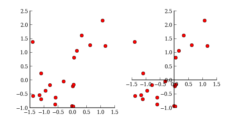
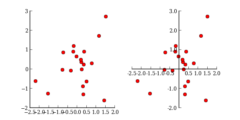
Update documentation

diff --git a/searchindex.js b/searchindex.js
@@ -1,1 +1,1 @@
-Search.setIndex({objects:{"mpltools.layout":{clear_frame:[13,6,1,""],figure:[13,6,1,""],figaspect:[13,6,1,""],pad_limits:[13,6,1,""],figimage:[13,6,1,""],cross_spines:[13,6,1,""]},"mpltools.io":{save_all_figs:[10,6,1,""]},"mpltools.color":{cycle_cmap:[4,6,1,""],colors_from_cmap:[4,6,1,""],color_mapper:[4,6,1,""]},"mpltools.annotation":{slope_marker:[23,6,1,""]},"mpltools.animation.Animation":{"__init__":[6,7,1,""],animate:[6,7,1,""],save:[6,7,1,""],update:[6,7,1,""],init_background:[6,7,1,""]},"mpltools.style":{use:[5,6,1,""]},"mpltools.util.deprecated":{"__init__":[18,7,1,""]},"mpltools.widgets.RectangleSelector":{onmove:[28,7,1,""],edge_coords:[28,8,1,""],extents:[28,8,1,""],set_active:[28,7,1,""],onkeypress:[28,7,1,""],set_visible:[28,7,1,""],get_active:[28,7,1,""],update:[28,7,1,""],disconnect_events:[28,7,1,""],set_animated:[28,7,1,""],release:[28,7,1,""],corner_coords:[28,8,1,""],"__init__":[28,7,1,""],press:[28,7,1,""],ignore:[28,7,1,""],update_background:[28,7,1,""],eventson:[28,8,1,""],connect_event:[28,7,1,""],drawon:[28,8,1,""]},"mpltools.animation":{Animation:[6,9,1,""]},"mpltools.util":{deprecated:[18,9,1,""],figure:[18,6,1,""],figsize:[18,6,1,""],figaspect:[18,6,1,""]},"mpltools.widgets":{Slider:[28,9,1,""],RectangleSelector:[28,9,1,""]},"mpltools.widgets.Slider":{reset:[28,7,1,""],disconnect:[28,7,1,""],on_changed:[28,7,1,""],set_val:[28,7,1,""],value:[28,8,1,""],disconnect_events:[28,7,1,""],ignore:[28,7,1,""],connect_event:[28,7,1,""],eventson:[28,8,1,""],"__init__":[28,7,1,""],drawon:[28,8,1,""]},"mpltools.special":{errorfill:[17,6,1,""],hinton:[17,6,1,""]},mpltools:{style:[5,5,1,""],layout:[13,5,1,""],color:[4,5,1,""],util:[18,5,1,""],animation:[6,5,1,""],io:[10,5,1,""],widgets:[28,5,1,""],annotation:[23,5,1,""],special:[17,5,1,""]}},terms:{represent:17,all:[22,21,10,24,1,11,6,28,19],code:[9,21,22,19,0,1,27,2,16,12,24,3,25,6,14,7,11],edg:28,pep:0,global:15,pval:12,scalar:17,size_frac:23,per:[13,6],abil:[9,19,21],follow:[0,1,22,11],osc:27,decay_r:27,locat:11,millisecond:6,decid:11,middl:28,plot2rst:[26,1,11],graph:9,specif:[24,22],send:0,articl:13,program:28,ylabel:[19,2],sens:1,neglig:22,yerr:17,clockwis:28,merchant:22,deactiv:28,sourc:[9,21,22,19,0,24,1,27,2,16,12,15,3,4,25,6,13,14,7,18,11],everi:[14,16,6],moviewrit:6,regularpolycollect:[14,17],fals:[9,21,23,5,6,13,19],role:3,rise:[23,25],util:[20,18,6],mindist:28,difficult:[0,4],veri:4,mplstyle:[0,11,5],tri:1,solver:14,button:28,list:[10,22,2,27,5,6,4,11],prefix:15,item:[3,6],sane:9,small:11,slidermax:28,setup:[15,6],dimens:13,prevent:1,impli:22,smaller:13,save_count:6,crop:13,sign:11,second:[11,1,6],cost:6,video:[27,6],accomod:13,hypotenus:23,pass:[23,1,2,12,24,6],cycle_cmap:[24,20,4],howev:[14,19,22,21],append:6,decayingoscil:27,blue:11,index:[8,11],what:[18,6],neg:[14,17,25],section:[8,11],edge_coord:28,"while":[3,1,6],uniform:[14,6],current:[13,0,1,5,11],delet:0,version:28,rgba:[12,4],"new":[24,28,1],net:17,method:[28,6],loglog:25,metadata:6,widget:[20,28],deriv:22,leg:12,situat:14,gener:[9,21,19,1,27,2,16,12,24,3,25,6,14,7,11],never:6,here:[1,6],bodi:13,met:22,shouldn:1,procur:22,modif:22,path:[15,0,1,10,11],modifi:[13,22],legend:[16,12],valu:[4,26,17,16,12,25,6,13,14,28,11],convert:[1,11],convers:1,shift:[24,9,19,21],larger:17,genr:6,loos:11,prior:22,figsiz:[20,21,24,9,27,12,18,3,7],inarrai:17,set_ydata:27,alt_func:18,permit:22,implement:[14,17,11,6],narrow:14,magnitud:[14,17],control:[27,28],configur:11,on_chang:28,extra:6,xerr:17,modul:[8,20,10,23,17,18,4,5,6,13,27,28,11],prefer:[13,15],deprec:[20,18],api:[8,17,20],famili:11,visibl:28,marker:[13,23,11,25,26],instal:[8,15],ymin:28,unit:17,plot:[1,2,27,6,7,8,9,10,11,12,13,14,16,17,19,21,23,24,25,26,3,28],introductori:8,from:[1,2,27,4,5,6,7,9,11,12,13,14,15,16,18,19,21,22,24,25,26,3,28],describ:12,would:11,map_color:4,cruft:0,few:11,live:11,busi:22,call:[1,3,6,13,18,28,11],set_axis_off:13,taken:7,black:[14,17,19],hinton:[20,14,17,11,26],type:27,tell:18,tightli:13,more:[14,17,0,11],ggplot:[9,26,11,2],desir:28,under:22,finit:14,notic:22,warn:18,visual:[14,17,11],former:11,particular:[1,22],moin:18,must:[22,27,11,10,6],none:[21,23,17,18,4,5,6,13,28],endpoint:[9,19,21],decaying_oscil:27,eeeeee:11,local:15,arang:[9,6],work:11,annot:[23,20,11,25,26],num_period:27,remain:[28,1,11],itself:28,below:1,can:[15,10,23,1,2,16,5,6,28,11],learn:11,purpos:[17,22],scatter:9,def:[21,27,1,6],on_slid:28,overrid:[6,5,2],want:[27,12,3,11,6],give:[13,6],predict:25,accept:[28,6],minimum:[4,28],tonysyu:15,xmin:28,repeat_delai:6,string:[11,28,1,6],delai:6,cours:[14,15],multipl:[26,11,10,2],turn:13,comfort:3,write:[1,6],how:[8,12],set_xticklabel:9,instead:[14,16,18,4,6],simpl:[24,11,25],sin:[9,21,24,1,16,12,27,19],updat:[27,28,11,6],map:12,product:22,unsupport:6,overridden:11,flip:28,max:28,clone:15,earlier:2,diagram:[6,17,18,26,14,28,11],befor:[1,5,6],ax4:[9,25],mai:[0,15,22,6],npt:27,data:[22,17,16,12,25,13],demonstr:[9,21,1,19],mous:28,github:[0,15],essenti:[9,21,11,19],move:28,confus:6,quot:[1,11],element:[21,11,19,2],caus:22,callback:28,disconnect_ev:28,allow:[13,14,28],enter:28,tall:13,order:[11,6],"2dev":[9,21,24,1,27,2,16,12,3,25,14,7,19],help:25,ouput:10,movi:6,over:[28,11],set_val:28,becaus:[11,4,1,6],corner_coord:28,y_co:16,left:[23,28,1,25],current_figur:1,linewidth:[24,11],paramet:[21,10,23,26,17,19,12,18,4,5,6,13,28,11],snippet:11,style:[8,9,21,19,0,20,2,5,26,11],disconnect:28,render:1,fit:[3,22,2],fix:3,tort:22,window:13,fig:[9,21,24,12,3,25,6,27,7],set_act:28,decai:[12,27,26],might:11,easier:[8,11],contrain:28,good:22,"return":[13,27,12,28,4],thei:[13,11],python:[9,21,19,1,27,2,16,12,15,3,25,24,14,7,18,11],dark_background:19,extra_arg:6,rectangl:[14,17,28],"break":1,aesthet:11,interrupt:22,now:28,discuss:1,nor:22,introduct:8,choic:11,name:[22,1,2,5,7,4,11],config:0,bupu:12,color_cycl:[9,19,21],linspac:[9,21,24,1,2,16,12,27,19],separ:[11,6],easili:6,slide:28,mode:28,mystyl:11,each:[10,17,12,5,14,11],aspect_ratio:[13,24,7,12],found:11,higher:6,side:9,intellig:1,replac:[1,6],individu:[14,17,16],continu:16,realli:[16,0],alpha_fil:[16,17],redistribut:[8,22],baselib:5,lib:5,connect:[28,11],year:11,todo:28,event:[28,22],special:[8,20,22,1,16,17,26,14,11],out:[0,11,22],variabl:[28,1,15,6],rcparam:[13,9,21,19,6],referenc:11,connect_ev:28,space:[24,1],profit:22,adjust:[13,8,9,3,11],adapt:[18,11],rel:11,print:[23,28,11],got:11,alter:[24,6,11,2],matric:14,after:[28,1],linear:25,midpoint:28,given:[24,18,4,5,6],standard:0,reason:11,base:[4,0,18,6,14,28,11],fontsiz:[23,11],theori:22,releas:28,org:18,care:0,wai:[22,0,11,25,24],could:[14,11],img:13,thing:0,length:[23,4],place:11,isn:[0,6],retain:22,subtl:1,onto:[13,3],assign:6,first:[6,11,5,2],origin:[23,17,25],softwar:22,rang:[4,12,28],text_kwarg:[23,25],directli:[1,6],y_sin:16,arrai:[13,14,17],qualiti:6,number:[4,11,10,6],unlik:[13,17,28,11,6],alreadi:7,blank:11,auto_exampl:11,custom:[25,11,5],open:10,set_ylim:12,size:[9,21,23,1,2,17,3,6,13,14,7,11],prioriti:11,differ:[0,1,12,6,13,14,28,11],sheet:11,figaspect:[9,21,24,20,12,18,13,3,7],associ:16,top:[13,7,27,9],imshow:[14,1,21],sometim:0,wrapper:11,figimag:[13,20],physic:2,circl:[9,21],termin:0,white:[14,17,4,19],scheme:9,cmap_rang:4,store:28,prone:14,subplot:[9,21,24,12,3,25,6,27,7],blindli:14,colors_from_cmap:[20,4],tool:[8,11],scikit:[0,11],lower:[12,28],specifi:[25,10,23,2,5,6,13,28,11],direct:[1,22],slider:[20,28],part:[8,11],pars:[0,11],sinusoid:9,rst:11,holder:22,than:[14,17,0,11,23],png:10,wide:13,liter:[8,9,10,23,17,18,4,5,6,13,28],conveni:3,ffmpeg:6,keyword:23,provid:[8,22,24,3,25,27,11],remov:[13,9,28],bitrat:[27,6],rate:12,structur:11,cite:[16,1],project:0,reus:6,xlabel:[19,2],str:[10,4,17,18,5,6,28],light:[4,11],posit:[13,14,17,28],seri:12,pre:[8,9,10,23,17,18,4,5,6,13,28,11],abov:22,untitl:10,respons:[12,28],ani:[22,0,1,17,6,28],set_anim:28,raw:1,blit:[27,6],have:[13,16,4,3,11],need:[0,28,1,6],border:[7,19],ax2:[9,21,24,12,25,7],ax3:[9,25],ax1:[9,21,24,12,25,7],squar:[14,17],equival:13,min:28,save_all_fig:[20,10],self:[27,6],note:[9,21,4,1,19,17,27,6,13,28,11],also:[13,4,1,6],without:[15,22,5],take:[8,28,6],which:[9,21,4,0,1,19,17,27,6,13,14,28,11],jacobian:14,wonder:11,singl:[23,28,11],even:22,begin:28,sure:[1,11],thi:[8,9,21,22,19,0,1,27,2,17,3,4,5,6,13,14,28,11],normal:[9,1,12,3,25,7],previou:1,compress:6,galleri:[14,17,11,26],errorfil:[16,17,20,26],most:[11,25],clear_fram:[13,20],regular:1,whether:22,pair:11,alpha:[17,1],"class":[8,9,10,23,17,18,4,5,6,13,27,28,11],warranti:22,don:[27,0,3,1],color_cycle_exampl:21,edgecolor:11,doc:[0,1,11],later:[28,11,2],request:0,doe:[3,6],dummi:1,exp:[12,27],n_line:24,constrain:13,axi:[9,17,6,13,7,19],slsqp:14,dot:[13,6],max_valu:17,slope:[23,11,25,26],show:[9,21,24,1,27,2,16,12,3,25,14,7,19],opposit:13,random:[9,21,1,3,6,14,7],set_vis:28,radiu:[9,21],syntax:[0,11],map_color1:12,map_color2:12,permiss:22,corner:[28,25],font:[23,11],ymax:28,absolut:17,onli:[24,1,4,5,6,13,28,11],explicitli:3,ratio:[13,3],facecolor:[11,25],pretti:2,writer:6,activ:28,written:22,should:[23,4,0,28,11],onselect:28,dict:[23,28,6],mpltoolsrc:0,analyt:14,eventson:28,update_background:28,info:8,value_rang:28,set_xtick:9,contribut:[8,0],get:[8,1,16,5,13,28,11],express:22,stop:4,fluid:2,color_mapp:[12,4,20],increas:6,liabl:22,mpl_connect:28,requir:[27,0,3,15,6],layout:[9,21,24,20,12,3,26,13,18,7,11],mapper:[12,4],bar:[16,9],organ:11,artist:[27,6],grayscal:[21,26],cid:28,borrow:11,yield:[27,6],patch:[23,28,11,21],twice:13,aris:22,value_fmt:28,contain:10,where:[14,11,10],hinton_demo:17,wrote:14,view:25,wiki:18,set:[9,21,24,1,2,4,19,6,13,28,11],frame:[13,27,6],elimin:7,displai:[27,1],see:[4,1,5,6,13,28,11],result:[14,6],arg:18,reserv:22,best:11,subject:6,statu:28,use_baselib:5,parent:28,someth:[0,11],enumer:9,dpi:[13,11,6],label:[21,23,2,16,17,3,13,28],figur:[20,10,26,1,2,3,6,13,18,28,11],stall:11,between:[4,28,1,6],"import":[9,21,19,1,27,2,16,12,3,25,24,14,7,11],neither:22,attribut:[7,28,6],altern:11,func:28,kei:[9,21,11,19,6],numer:14,were:[14,7,9],cycl:[24,9,4,26],incident:22,matplotlib:[1,2,27,4,5,6,7,8,9,11,12,13,14,15,16,17,19,21,23,25,24,3,28],extent:28,distinguish:4,rectprop:28,addit:[28,11,5],disclaim:22,last:[5,2],opac:17,extens:[26,1,10,11],tmax:27,equal:[9,11],contract:22,len:[9,19,21],etc:[8,11,19,2],instanc:28,equat:14,forgotten:6,pdf:10,com:[9,15],comment:[1,6],configobj:[0,11,15],simpli:[15,6],point:[16,28,11],color:[8,9,20,19,17,2,12,24,25,26,4,11,21],guidelin:0,period:1,height:[13,3],header:11,exemplari:22,"_exampl":11,pof:2,respect:[14,17],assum:4,backend:6,liabil:22,evalu:2,ncolor:[9,19,21],invert:[23,17,25],numpi:[9,21,24,0,1,27,2,16,12,3,25,14,7,19],add:[0,1,25,11],empti:6,sinc:[13,28],much:[14,17,0],infrastructur:0,"348abd":11,imag:[13,0,1,10,11],resolut:11,logspac:[12,25],search:11,argument:[23,28,6],coordin:[23,17,28],zero:13,matplotlibrc:[9,0,21,11,19],init_background:6,label_fil:[16,17],funcanim:6,those:2,rectangleselector:[20,28],plot_figaspect:11,set_titl:[12,3,25],stolen:9,look:[1,11],packag:[8,9,11,15,26],servic:22,properti:28,sourceforg:17,rectangular:28,defin:[21,11,27,5,6,2,19],calcul:[13,14,3],behavior:[13,18,3],error:[16,17,18],antialias:11,margin:[9,1],observ:28,demo:[14,17],them:11,"default":[9,21,10,24,19,27,4,6,13,7,28,11],kwarg:[13,18,28,6],slidermin:28,aspect_funct:3,conf:11,onmov:28,"__init__":[18,28,27,6],decor:18,develop:8,clearli:6,pad_limit:[13,20],author:22,suggest:11,make:[8,0,1,2,28,11],onkeypress:28,cross:[13,7,11,26],same:[13,11],binari:22,html:[17,0],pad:[13,23,28],auto:0,inch:[13,6],document:[8,0,22,5],start:[8,12,4,11,5],complet:6,http:[9,18,17],optim:[14,6],nest:1,logic:6,someon:1,moment:0,rais:18,initi:[28,6],canva:28,typic:19,built:[0,27,11],subpackag:27,redefin:[28,11,5],task:0,off:[13,14],center:13,choos:[8,11],markup:11,randint:9,inherit:[18,28,6],anim:[20,26,27,11,6],exampl:[8,9,21,10,0,2,17,3,19,26,13,14,11],pad_frac:[13,23],interpol:21,undefin:11,everyth:0,loss:22,unchang:11,style2:11,style1:11,distanc:28,identifi:6,just:[0,1,11],less:23,parameter_rang:[12,4],plot2rst_path:11,obscur:14,detail:[11,5],shape:[3,26],aspect:[13,3],cornflowerblu:25,speed:14,pythondecoratorlibrari:18,web:[13,3],easi:6,debug:14,copi:11,restructuredtext:[1,11],tight_layout:25,toni:22,get_act:28,other:[28,11,22],init_func:6,pyplot:[9,21,24,1,27,2,16,12,3,25,13,14,7,4,19],input:[17,10],save:[11,27,1,10,6],determin:[23,11,6],ravel:9,match:17,build:[0,11],real:1,xaxi:23,advis:22,format:[28,10],handl:[28,1,11],suppos:12,dark:[19,26],xmax:28,background:[28,6,26,13,4,19],approx_jacobian:14,press:28,tick:[13,9],tweak:5,licens:[8,22],measur:[16,25],like:[0,11],success:4,filenam:[10,6],spine:[13,7,11,26],docutil:[8,9,10,23,17,18,4,5,6,13,28],incred:14,collect:6,"boolean":28,necessari:1,either:[11,25],"_static":27,region:[16,17,28],output:6,resiz:28,y_err:16,page:[13,3],underli:6,www:9,right:[9,22,23,12,25,13,7],often:[13,3,25],interv:[24,6],creation:27,some:[11,4,1,6],back:28,webm:27,ncol:[24,7,12,9,21],home:[15,11,5],indirect:22,kilobit:6,librari:5,distribut:22,pixel:28,mplstylelib:11,scale:[13,9],specialti:11,pet:0,shall:22,definit:5,subclass:6,contrast:3,substitut:22,larg:4,select:28,overlai:13,mencod:6,condit:[8,22,14],damag:22,reproduc:22,huyng:9,refer:[8,20],plt:[9,21,24,1,27,2,16,12,3,25,6,13,14,7,19],run:[23,0,1,25,6],colormap:[24,4,26],emul:[9,11],journal:[13,0,3,2],noisi:16,popular:[9,11],step:8,promot:22,boundari:14,post:9,appli:5,src:27,about:11,actual:[13,17],constraint:13,column:[3,2],materi:22,slightli:11,plai:27,surround:[13,7],unfortun:11,cmap:[24,12,4],plot_:11,endors:22,image_and_patch_exampl:21,block:[1,11],own:11,effici:[14,17],"final":1,pythonpath:15,"float":[23,17,4,25,6,13,28],tag:[27,1],pvalu:12,down:14,bsd:22,pink:24,lieu:28,contributor:22,chang:[3,4,28,21,24],mark:[17,18],your:[15,28,11,5],drawon:28,loc:12,git:15,span:[8,9,10,23,17,18,4,5,6,13,28],object:[13,18,6],val:28,garbag:6,execut:1,support:[0,27,6],stylesheet:[9,19,21],submit:0,poly_kwarg:[23,25],avail:[11,5],width:[13,9,3,6],interfac:6,includ:[8,11,22,6],fraction:[13,23],strict:22,randompoint:6,"function":[8,20,4,1,12,3,5,6,13,18,17,28,11],form:22,enough:0,forc:28,tupl:[23,28,4,25],fmt:10,triangular:23,oscil:[27,26],serif:11,genrst:11,link:[1,11],shamelessli:9,line:[9,1,2,17,27,6,4,11],inlin:1,"true":[25,23,27,5,6,13,7,28,11],bug:14,reset:28,pull:0,tripl:1,possibl:[22,0,11,10],avi:27,maximum:4,scipi:14,limit:[13,4,22],subsequ:13,otherwis:[22,6],inform:0,similar:[9,21,19,14,4,11],expect:28,curv:12,featur:[9,19,21],creat:[3,28,1,6],"int":[13,4,6],cross_spin:[13,20,7,9],dure:18,parser:1,num_fram:[27,6],doesn:[9,1],repres:[14,17,25,16],slope_mark:[23,20,25],file:[9,21,10,19,0,1,2,5,6,11],download:[9,21,19,1,27,2,16,12,3,25,24,14,7,11],check:[14,11],fill:[13,16,17,3],polygon:23,know:12,titl:[6,19,10,2],user:[18,5,6],when:[4,0,16,25,6,13,28,11],zero_cross:[13,7],end:1,tight:13,codec:6,bool:[13,23,28,5],copyright:[22,6],test:0,ignor:28,you:[15,23,0,1,27,2,16,12,24,3,5,6,13,14,4,11],shrink:13,nice:[13,27],draw:[14,17,6],repeat:6,clean:[27,0,28,6],sequenc:6,introduc:27,docstr:[11,1,6],consequenti:22,drag:28,amplitud:27,default_nam:10,pcolor:14,sphinx:[0,26,1,11],nrow:9,directori:[10,5,11],descript:11,evenli:24,mpltool:[0,1,2,3,4,5,6,7,8,9,10,11,12,13,14,15,16,17,18,19,21,22,23,25,24,27,28],text:[23,1,19,2,28,11],time:[27,6],add_patch:[9,21],plot_cross_spin:11,togeth:27},objtypes:{"0":"py:module","1":"py:function","2":"py:method","3":"py:attribute","4":"py:class","5":"np:module","6":"np:function","7":"np:method","8":"np:attribute","9":"np:class"},titles:["Contribute","<cite>plot2rst</cite> extension","Multiple styles","Figure shape","Module: <tt class=\"docutils literal docutils literal\"><span class=\"pre\">color</span></tt>","Module: <tt class=\"docutils literal docutils literal\"><span class=\"pre\">style</span></tt>","Module: <tt class=\"docutils literal docutils literal\"><span class=\"pre\">animation</span></tt>","Crossed spines","<tt class=\"docutils literal docutils literal docutils literal docutils literal docutils literal docutils literal docutils literal docutils literal docutils literal docutils literal docutils literal docutils literal docutils literal docutils literal docutils literal docutils literal docutils literal docutils literal docutils literal\"><span class=\"pre\">mpltools</span></tt>: Tools for Matplotlib","<tt class=\"docutils literal\"><span class=\"pre\">ggplot</span></tt> style","Module: <tt class=\"docutils literal docutils literal\"><span class=\"pre\">io</span></tt>","Getting Started","Color from parameter value","Module: <tt class=\"docutils literal docutils literal\"><span class=\"pre\">layout</span></tt>","Hinton diagram","Install","Plot <cite>errorfill</cite>","Module: <tt class=\"docutils literal docutils literal\"><span class=\"pre\">special</span></tt>","Module: <tt class=\"docutils literal docutils literal\"><span class=\"pre\">util</span></tt>","Dark backgrounds","API Reference","Grayscale plots","License","Module: <tt class=\"docutils literal\"><span class=\"pre\">annotation</span></tt>","Color cycle from a colormap","Slope marker","Example Gallery","Decaying oscillation","Module: <tt class=\"docutils literal docutils literal\"><span class=\"pre\">widgets</span></tt>"],objnames:{"0":["py","module","Python module"],"1":["py","function","Python function"],"2":["py","method","Python method"],"3":["py","attribute","Python attribute"],"4":["py","class","Python class"],"5":["np","module","Python module"],"6":["np","function","Python function"],"7":["np","method","Python method"],"8":["np","attribute","Python attribute"],"9":["np","class","Python class"]},filenames:["contribute","auto_examples/sphinx/plot_plot2rst","auto_examples/style/plot_multiple_styles","auto_examples/layout/plot_figaspect","api/mpltools.color","api/mpltools.style","api/mpltools.animation","auto_examples/layout/plot_cross_spines","index","auto_examples/style/plot_ggplot","api/mpltools.io","getting_started","auto_examples/color/plot_color_mapper","api/mpltools.layout","auto_examples/special/plot_hinton","install","auto_examples/special/plot_errorfill","api/mpltools.special","api/mpltools.util","auto_examples/style/plot_dark_background","api/api","auto_examples/style/plot_grayscale","license","api/mpltools.annotation","auto_examples/color/plot_cycle_cmap","auto_examples/annotation/plot_slope_marker","auto_examples/index","auto_examples/animation/plot_decaying_oscillation","api/mpltools.widgets"]})
+Search.setIndex({objects:{"mpltools.layout":{clear_frame:[13,6,1,""],figure:[13,6,1,""],figaspect:[13,6,1,""],clip_zero_formatter:[13,6,1,""],pad_limits:[13,6,1,""],figimage:[13,6,1,""],cross_spines:[13,6,1,""]},"mpltools.io":{save_all_figs:[10,6,1,""]},"mpltools.color":{cycle_cmap:[4,6,1,""],colors_from_cmap:[4,6,1,""],color_mapper:[4,6,1,""]},"mpltools.annotation":{slope_marker:[23,6,1,""]},"mpltools.animation.Animation":{"__init__":[6,7,1,""],animate:[6,7,1,""],save:[6,7,1,""],update:[6,7,1,""],init_background:[6,7,1,""]},"mpltools.style":{use:[5,6,1,""]},"mpltools.util.deprecated":{"__init__":[18,7,1,""]},"mpltools.widgets.RectangleSelector":{onmove:[28,7,1,""],edge_coords:[28,8,1,""],extents:[28,8,1,""],set_active:[28,7,1,""],onkeypress:[28,7,1,""],set_visible:[28,7,1,""],get_active:[28,7,1,""],update:[28,7,1,""],disconnect_events:[28,7,1,""],set_animated:[28,7,1,""],release:[28,7,1,""],corner_coords:[28,8,1,""],"__init__":[28,7,1,""],press:[28,7,1,""],ignore:[28,7,1,""],update_background:[28,7,1,""],eventson:[28,8,1,""],connect_event:[28,7,1,""],drawon:[28,8,1,""]},"mpltools.animation":{Animation:[6,9,1,""]},"mpltools.util":{deprecated:[18,9,1,""],figure:[18,6,1,""],figsize:[18,6,1,""],figaspect:[18,6,1,""]},"mpltools.widgets":{Slider:[28,9,1,""],RectangleSelector:[28,9,1,""]},"mpltools.widgets.Slider":{reset:[28,7,1,""],disconnect:[28,7,1,""],on_changed:[28,7,1,""],set_val:[28,7,1,""],value:[28,8,1,""],disconnect_events:[28,7,1,""],ignore:[28,7,1,""],"__init__":[28,7,1,""],eventson:[28,8,1,""],connect_event:[28,7,1,""],drawon:[28,8,1,""]},"mpltools.special":{errorfill:[17,6,1,""],hinton:[17,6,1,""]},mpltools:{style:[5,5,1,""],layout:[13,5,1,""],color:[4,5,1,""],util:[18,5,1,""],animation:[6,5,1,""],io:[10,5,1,""],widgets:[28,5,1,""],annotation:[23,5,1,""],special:[17,5,1,""]}},terms:{represent:17,all:[22,21,10,24,1,11,6,28,19],code:[9,21,22,19,0,1,27,2,16,12,24,3,25,6,14,7,11],edg:28,pep:0,global:15,pval:12,scalar:17,size_frac:23,per:[13,6],abil:[9,19,21],follow:[0,1,22,11],osc:27,decay_r:27,locat:11,millisecond:6,decid:11,middl:28,plot2rst:[26,1,11],graph:9,specif:[24,22],send:0,articl:13,program:28,ylabel:[19,2],sens:1,neglig:22,yerr:17,clockwis:28,merchant:22,deactiv:28,sourc:[9,21,22,19,0,24,1,27,2,16,12,15,3,4,25,6,13,14,7,18,11],everi:[14,16,6],moviewrit:6,regularpolycollect:[14,17],fals:[9,21,23,5,6,13,19],role:3,rise:[23,25],util:[20,18,6],mindist:28,difficult:[0,4],veri:4,mplstyle:[0,11,5],tri:1,solver:14,button:28,list:[10,22,2,27,5,6,4,11],prefix:15,previou:1,item:[3,6],sane:9,small:11,slidermax:28,setup:[15,6],dimens:13,prevent:1,impli:22,smaller:13,save_count:6,crop:13,sign:11,second:[11,1,6],cost:6,video:[27,6],accomod:13,hypotenus:23,pass:[23,1,2,12,24,6],cycle_cmap:[24,20,4],howev:[14,19,22,21],append:6,decayingoscil:27,blue:11,index:[8,11],what:[18,6],neg:[14,17,25],section:[8,11],edge_coord:28,"while":[3,1,6],uniform:[14,6],current:[0,1,17,5,13,11],delet:0,version:28,rgba:[12,4],"new":[24,28,1],net:17,method:[28,6],loglog:25,metadata:6,widget:[20,28],deriv:22,leg:12,situat:14,gener:[9,21,19,1,27,2,16,12,24,3,25,6,14,7,11],never:6,here:[1,6],bodi:13,met:22,shouldn:1,procur:22,modif:22,path:[15,0,1,10,11],modifi:[13,22],legend:[16,12],valu:[4,26,17,16,12,25,6,13,14,28,11],convert:[1,11],convers:1,shift:[24,9,19,21],larger:17,genr:6,loos:11,prior:22,figsiz:[20,21,24,9,27,12,18,3,7],inarrai:17,set_ydata:27,alt_func:18,permit:22,implement:[14,17,11,6],narrow:14,magnitud:[14,17],control:[27,28],configur:11,on_chang:28,extra:6,xerr:17,modul:[8,20,10,23,17,18,4,5,6,13,27,28,11],prefer:[13,15],deprec:[20,18],api:[8,17,20],famili:11,visibl:28,marker:[13,23,11,25,26],instal:[8,15],ymin:28,unit:17,plot:[1,2,27,6,7,8,9,10,11,12,13,14,16,17,19,21,23,24,25,26,3,28],introductori:8,from:[1,2,27,4,5,6,7,9,11,12,13,14,15,16,18,19,21,22,24,25,26,3,28],describ:12,would:11,map_color:4,cruft:0,few:11,live:11,busi:22,call:[1,3,6,13,18,28,11],set_axis_off:13,taken:7,black:[14,17,19],hinton:[20,14,17,11,26],type:27,tell:18,tightli:13,more:[14,17,0,11],ggplot:[9,26,11,2],desir:28,under:22,finit:14,notic:22,warn:18,visual:[14,17,11],former:11,particular:[1,22],moin:18,must:[22,27,11,10,6],none:[21,23,17,18,4,5,6,13,28],endpoint:[9,19,21],decaying_oscil:27,eeeeee:11,local:15,arang:[9,6],work:11,annot:[23,20,11,25,26],num_period:27,remain:[28,1,11],itself:28,below:1,can:[15,10,23,1,2,16,5,6,28,11],learn:11,purpos:[17,22],scatter:9,def:[21,27,1,6],on_slid:28,overrid:[6,5,2],want:[27,12,3,11,6],give:[13,6],predict:25,accept:[28,6],minimum:[4,28],tonysyu:15,xmin:28,repeat_delai:6,string:[13,11,28,1,6],delai:6,cours:[14,15],multipl:[26,11,10,2],turn:13,comfort:3,write:[1,6],how:[8,12],set_xticklabel:9,instead:[14,16,18,4,6],simpl:[24,11,25],sin:[9,21,24,1,16,12,27,19],updat:[27,28,11,6],map:12,product:22,unsupport:6,overridden:11,flip:28,max:28,clone:15,earlier:2,diagram:[6,17,18,26,14,28,11],befor:[1,5,6],ax4:[9,25],mai:[0,15,22,6],npt:27,data:[22,17,16,12,25,13],demonstr:[9,21,1,19],mous:28,github:[0,15],essenti:[9,21,11,19],move:28,confus:6,quot:[1,11],element:[21,11,19,2],caus:22,callback:28,disconnect_ev:28,allow:[13,14,28],enter:28,tall:13,order:[11,6],"2dev":[9,21,24,1,27,2,16,12,3,25,14,7,19],help:25,ouput:10,movi:6,over:[28,11],set_val:28,becaus:[11,4,1,6],corner_coord:28,y_co:16,left:[23,28,1,25],current_figur:1,linewidth:[24,11],paramet:[21,10,23,26,17,19,12,18,4,5,6,13,28,11],snippet:11,style:[8,9,21,19,0,20,2,17,5,26,11],disconnect:28,directli:[1,6],fit:[3,22,2],fix:3,tort:22,window:13,fig:[9,21,24,12,3,25,6,27,7],set_act:28,decai:[12,27,26],might:11,easier:[8,11],contrain:28,good:22,"return":[13,27,12,28,4],thei:[13,11],python:[9,21,19,1,27,2,16,12,15,3,25,24,14,7,18,11],dark_background:19,extra_arg:6,rectangl:[14,17,28],"break":1,aesthet:11,interrupt:22,now:28,discuss:1,nor:22,introduct:8,choic:11,name:[22,1,2,5,7,4,11],config:0,bupu:12,color_cycl:[9,19,21],linspac:[9,21,24,1,2,16,12,27,19],separ:[11,6],easili:6,slide:28,mode:28,mystyl:11,each:[10,17,12,5,14,11],aspect_ratio:[13,24,7,12],found:11,higher:6,side:9,intellig:1,replac:[1,6],individu:[14,17,16],continu:16,realli:[16,0],alpha_fil:[16,17],redistribut:[8,22],baselib:5,lib:5,connect:[28,11],year:11,todo:28,event:[28,22],special:[8,20,22,1,16,17,26,14,11],out:[0,11,22],variabl:[28,1,15,6],rcparam:[13,9,21,19,6],referenc:11,connect_ev:28,space:[24,1],profit:22,adjust:[13,8,9,3,11],adapt:[18,11],rel:11,print:[23,28,11],got:11,alter:[24,6,11,2],matric:14,after:[28,1],linear:25,midpoint:28,given:[24,18,4,5,6],standard:0,reason:11,base:[4,0,18,6,14,28,11],fontsiz:[23,11],theori:22,releas:28,org:18,care:0,wai:[22,0,11,25,24],could:[14,11],img:13,thing:0,length:[23,4],place:11,isn:[0,6],retain:22,subtl:1,onto:[13,3],assign:6,first:[6,11,5,2],origin:[23,17,25],softwar:22,rang:[4,12,28],text_kwarg:[23,25],render:1,y_sin:16,arrai:[13,14,17],qualiti:6,number:[4,11,10,6],unlik:[13,17,28,11,6],alreadi:7,blank:11,auto_exampl:11,custom:[25,11,5],open:10,set_ylim:12,size:[9,21,23,1,2,17,3,6,13,14,7,11],prioriti:11,differ:[0,1,12,6,13,14,28,11],sheet:11,figaspect:[9,21,24,20,12,18,13,3,7],associ:16,top:[13,7,27,9],imshow:[14,1,21],sometim:0,wrapper:11,figimag:[13,20],physic:2,circl:[9,21],termin:0,white:[14,17,4,19],scheme:9,cmap_rang:4,store:28,prone:14,subplot:[9,21,24,12,3,25,6,27,7],blindli:14,colors_from_cmap:[20,4],tool:[8,11],scikit:[0,11],lower:[12,28],specifi:[25,10,23,2,5,6,13,28,11],direct:[1,22],slider:[20,28],part:[8,11],pars:[0,11],sinusoid:9,rst:11,holder:22,than:[14,17,0,11,23],png:10,wide:13,liter:[8,9,10,23,17,18,4,5,6,13,28],conveni:3,ffmpeg:6,keyword:23,provid:[8,22,24,3,25,27,11],remov:[13,9,28],bitrat:[27,6],rate:12,structur:11,cite:[16,1],project:0,reus:6,xlabel:[19,2],str:[10,4,17,18,5,6,28],light:[4,11],posit:[13,14,17,28],seri:12,pre:[8,9,10,23,17,18,4,5,6,13,28,11],behavior:[13,18,3],untitl:10,respons:[12,28],ani:[22,0,1,17,6,28],set_anim:28,raw:1,blit:[27,6],have:[13,16,4,3,11],need:[0,28,1,6],border:[7,19],ax2:[9,21,24,12,25,7],ax3:[9,25],ax1:[9,21,24,12,25,7],squar:[14,17],equival:13,min:28,save_all_fig:[20,10],self:[27,6],note:[9,21,4,1,19,17,27,6,13,28,11],also:[13,4,1,6],without:[15,22,5],take:[8,28,6],which:[9,21,4,0,1,19,17,27,6,13,14,28,11],jacobian:14,wonder:11,singl:[23,28,11],even:22,begin:28,sure:[1,11],thi:[8,9,21,22,19,0,1,27,2,17,3,4,5,6,13,14,28,11],normal:[9,1,12,3,25,7],object:[13,18,6],compress:6,galleri:[14,17,11,26],errorfil:[16,17,20,26],most:[11,25],clear_fram:[13,20],regular:1,whether:22,pair:11,alpha:[17,1],"class":[8,9,10,23,17,18,4,5,6,13,27,28,11],warranti:22,don:[27,0,3,1],color_cycle_exampl:21,edgecolor:11,doc:[0,1,11],later:[28,11,2],request:0,doe:[3,6],dummi:1,exp:[12,27],n_line:24,constrain:13,axi:[9,17,6,13,7,19],slsqp:14,dot:[13,6],max_valu:17,slope:[23,11,25,26],show:[9,21,24,1,27,2,16,12,3,25,14,7,19],opposit:13,random:[9,21,1,3,6,14,7],set_vis:28,radiu:[9,21],syntax:[0,11],map_color1:12,map_color2:12,permiss:22,corner:[28,25],font:[23,11],absolut:17,onli:[24,1,4,5,6,13,28,11],explicitli:3,ratio:[13,3],facecolor:[11,25],pretti:2,writer:6,activ:28,written:22,should:[23,4,0,28,11],onselect:28,dict:[23,28,6],mpltoolsrc:0,analyt:14,eventson:28,update_background:28,info:8,value_rang:28,set_xtick:9,contribut:[8,0],get:[8,1,16,5,13,28,11],express:22,stop:4,fluid:2,color_mapp:[12,4,20],drawn:17,increas:6,liabl:22,mpl_connect:28,requir:[27,0,3,15,6],layout:[9,21,24,20,12,3,26,13,18,7,11],mapper:[12,4],bar:[16,9],organ:11,artist:[27,6],grayscal:[21,26],cid:28,borrow:11,yield:[27,6],patch:[23,28,11,21],twice:13,aris:22,value_fmt:28,contain:10,where:[14,11,10],hinton_demo:17,wrote:14,view:25,wiki:18,set:[9,21,24,1,2,4,19,6,13,28,11],tick_po:13,elimin:7,displai:[27,1],see:[4,1,5,6,13,28,11],result:[14,6],arg:18,reserv:22,best:11,subject:6,statu:28,use_baselib:5,parent:28,someth:[0,11],enumer:9,dpi:[13,11,6],label:[21,23,2,16,17,3,13,28],figur:[20,10,26,1,2,3,6,13,18,28,11],stall:11,between:[4,28,1,6],"import":[9,21,19,1,27,2,16,12,3,25,24,14,7,11],neither:22,attribut:[7,28,6],altern:11,func:28,kei:[9,21,11,19,6],numer:14,were:[14,7,9],cycl:[24,9,4,26],incident:22,matplotlib:[1,2,27,4,5,6,7,8,9,11,12,13,14,15,16,17,19,21,23,25,24,3,28],extent:28,distinguish:4,rectprop:28,addit:[28,11,5],disclaim:22,last:[5,2],rectangleselector:[20,28],extens:[26,1,10,11],tmax:27,equal:[9,11],contract:22,len:[9,19,21],etc:[8,11,19,2],instanc:[17,28],equat:14,forgotten:6,pdf:10,com:[9,15],comment:[1,6],configobj:[0,11,15],simpli:[15,6],point:[16,17,28,11],color:[8,9,20,19,17,2,12,24,25,26,4,11,21],guidelin:0,period:1,height:[13,3],header:11,exemplari:22,"_exampl":11,pof:2,respect:[14,17],aspect_funct:3,assum:4,backend:6,liabil:22,evalu:2,ncolor:[9,19,21],invert:[23,17,25],numpi:[9,21,24,0,1,27,2,16,12,3,25,14,7,19],add:[0,1,25,11],empti:[13,6],sinc:[13,28],much:[14,17,0],infrastructur:0,"348abd":11,imag:[13,0,1,10,11],resolut:11,logspac:[12,25],search:11,argument:[23,28,6],coordin:[23,17,28],zero:13,matplotlibrc:[9,0,21,11,19],init_background:6,label_fil:[16,17],funcanim:6,those:2,opac:17,plot_figaspect:11,set_titl:[12,3,25],stolen:9,look:[1,11],packag:[8,9,11,15,26],servic:22,properti:28,sourceforg:17,rectangular:28,formatt:13,defin:[21,11,27,5,6,2,19],calcul:[13,14,3],abov:22,error:[16,17,18],antialias:11,margin:[9,1],observ:28,demo:[14,17],them:11,"default":[9,21,10,24,19,27,4,6,13,7,28,11],kwarg:[13,18,28,6],slidermin:28,avi:27,conf:11,onmov:28,"__init__":[18,28,27,6],decor:18,develop:8,pad_limit:[13,20],author:22,suggest:11,make:[8,0,1,2,28,11],onkeypress:28,cross:[13,7,11,26],same:[13,11],binari:22,html:[17,0],pad:[13,23,28],auto:0,inch:[13,6],document:[8,0,22,5],start:[8,12,4,11,5],complet:6,http:[9,18,17],optim:[14,6],nest:1,logic:6,someon:1,moment:0,rais:18,initi:[28,6],canva:28,typic:19,built:[0,27,11],subpackag:27,clip_zero_formatt:[13,20],redefin:[28,11,5],task:0,off:[13,14],center:13,choos:[8,11],markup:11,randint:9,inherit:[18,28,6],anim:[20,26,27,11,6],exampl:[8,9,21,10,0,2,17,3,19,26,13,14,11],pad_frac:[13,23],interpol:21,undefin:11,everyth:0,loss:22,unchang:11,style2:11,style1:11,distanc:28,identifi:6,just:[0,1,11],less:23,parameter_rang:[12,4],plot2rst_path:11,obscur:14,detail:[11,5],shape:[3,26],aspect:[13,3],cornflowerblu:25,speed:14,pythondecoratorlibrari:18,web:[13,3],easi:6,debug:14,copi:11,restructuredtext:[1,11],tight_layout:25,toni:22,get_act:28,other:[28,11,22],init_func:6,pyplot:[9,21,24,1,27,2,16,12,3,25,13,14,7,4,19],input:[17,10],save:[11,27,1,10,6],determin:[23,11,6],ravel:9,match:17,build:[0,11],real:1,xaxi:23,advis:22,format:[28,10],handl:[28,1,11],tick_val:13,suppos:12,dark:[19,26],xmax:28,background:[28,6,26,13,4,19],approx_jacobian:14,press:28,tick:[13,9],tweak:5,licens:[8,22],measur:[16,25],like:[0,11],success:4,filenam:[10,6],spine:[13,7,11,26],docutil:[8,9,10,23,17,18,4,5,6,13,28],incred:14,collect:6,"boolean":28,necessari:1,either:[11,25],"_static":27,region:[16,17,28],output:6,resiz:28,y_err:16,page:[13,3],underli:6,www:9,right:[9,22,23,12,25,13,7],often:[13,3,25],interv:[24,6],creation:27,some:[11,4,1,6],back:28,webm:27,ncol:[24,7,12,9,21],home:[15,11,5],indirect:22,kilobit:6,librari:5,distribut:22,pixel:28,mplstylelib:11,scale:[13,9],specialti:11,pet:0,shall:22,definit:5,subclass:6,contrast:3,substitut:22,larg:4,select:28,overlai:13,mencod:6,condit:[8,22,14],damag:22,reproduc:22,huyng:9,refer:[8,20],plt:[9,21,24,1,27,2,16,12,3,25,6,13,14,7,19],run:[23,0,1,25,6],colormap:[24,4,26],emul:[9,11],journal:[13,0,3,2],noisi:16,popular:[9,11],step:8,promot:22,boundari:14,post:9,appli:5,src:27,about:11,actual:[13,17],constraint:13,column:[3,2],materi:22,slightli:11,plai:27,surround:[13,7],unfortun:11,cmap:[24,12,4],plot_:11,endors:22,image_and_patch_exampl:21,block:[1,11],own:11,effici:[14,17],"final":1,pythonpath:15,"float":[23,17,4,25,6,13,28],tag:[27,1],pvalu:12,down:14,bsd:22,pink:24,lieu:28,contributor:22,chang:[3,4,28,21,24],mark:[17,18],your:[15,28,11,5],drawon:28,loc:12,git:15,span:[8,9,10,23,17,18,4,5,6,13,28],ymax:28,val:28,garbag:6,execut:1,support:[0,27,6],stylesheet:[9,19,21],submit:0,poly_kwarg:[23,25],avail:[11,5],width:[13,9,3,17,6],interfac:6,includ:[8,11,22,6],fraction:[13,23],strict:22,randompoint:6,"function":[8,20,4,1,12,3,5,6,13,18,17,28,11],form:22,enough:0,forc:28,tupl:[23,28,4,25],fmt:10,triangular:23,oscil:[27,26],serif:11,genrst:11,link:[1,11],shamelessli:9,line:[9,1,2,17,27,6,4,11],inlin:1,"true":[25,23,27,5,6,13,7,28,11],bug:14,reset:28,pull:0,tripl:1,possibl:[22,0,11,10],clearli:6,maximum:4,scipi:14,limit:[13,4,22],subsequ:13,otherwis:[22,6],inform:0,similar:[9,21,19,14,4,11],expect:28,curv:12,featur:[9,19,21],creat:[3,28,1,6],"int":[13,4,6],cross_spin:[13,20,7,9],dure:18,parser:1,num_fram:[27,6],doesn:[9,1],repres:[14,17,25,16],slope_mark:[23,20,25],file:[9,21,10,19,0,1,2,5,6,11],download:[9,21,19,1,27,2,16,12,3,25,24,14,7,11],check:[14,11],fill:[13,16,17,3],frame:[13,27,6],polygon:23,know:12,titl:[6,19,10,2],user:[18,5,6],when:[4,0,16,25,6,13,28,11],zero_cross:[13,7],end:1,tight:13,codec:6,bool:[13,23,28,5],copyright:[22,6],test:0,ignor:28,you:[15,23,0,1,27,2,16,12,24,3,5,6,13,14,4,11],shrink:13,nice:[13,27],draw:[14,17,6],repeat:6,clean:[27,0,28,6],sequenc:6,introduc:27,docstr:[11,1,6],consequenti:22,drag:28,amplitud:27,remove_zero:13,default_nam:10,pcolor:14,sphinx:[0,26,1,11],nrow:9,directori:[10,5,11],descript:11,evenli:24,mpltool:[0,1,2,3,4,5,6,7,8,9,10,11,12,13,14,15,16,17,18,19,21,22,23,25,24,27,28],text:[23,1,19,2,28,11],time:[27,6],add_patch:[9,21],plot_cross_spin:11,togeth:27},objtypes:{"0":"py:module","1":"py:function","2":"py:method","3":"py:attribute","4":"py:class","5":"np:module","6":"np:function","7":"np:method","8":"np:attribute","9":"np:class"},titles:["Contribute","<cite>plot2rst</cite> extension","Multiple styles","Figure shape","Module: <tt class=\"docutils literal docutils literal\"><span class=\"pre\">color</span></tt>","Module: <tt class=\"docutils literal docutils literal\"><span class=\"pre\">style</span></tt>","Module: <tt class=\"docutils literal docutils literal\"><span class=\"pre\">animation</span></tt>","Crossed spines","<tt class=\"docutils literal docutils literal docutils literal docutils literal docutils literal docutils literal docutils literal docutils literal docutils literal docutils literal docutils literal docutils literal docutils literal docutils literal docutils literal docutils literal docutils literal docutils literal docutils literal\"><span class=\"pre\">mpltools</span></tt>: Tools for Matplotlib","<tt class=\"docutils literal\"><span class=\"pre\">ggplot</span></tt> style","Module: <tt class=\"docutils literal docutils literal\"><span class=\"pre\">io</span></tt>","Getting Started","Color from parameter value","Module: <tt class=\"docutils literal docutils literal\"><span class=\"pre\">layout</span></tt>","Hinton diagram","Install","Plot <cite>errorfill</cite>","Module: <tt class=\"docutils literal docutils literal\"><span class=\"pre\">special</span></tt>","Module: <tt class=\"docutils literal docutils literal\"><span class=\"pre\">util</span></tt>","Dark backgrounds","API Reference","Grayscale plots","License","Module: <tt class=\"docutils literal\"><span class=\"pre\">annotation</span></tt>","Color cycle from a colormap","Slope marker","Example Gallery","Decaying oscillation","Module: <tt class=\"docutils literal docutils literal\"><span class=\"pre\">widgets</span></tt>"],objnames:{"0":["py","module","Python module"],"1":["py","function","Python function"],"2":["py","method","Python method"],"3":["py","attribute","Python attribute"],"4":["py","class","Python class"],"5":["np","module","Python module"],"6":["np","function","Python function"],"7":["np","method","Python method"],"8":["np","attribute","Python attribute"],"9":["np","class","Python class"]},filenames:["contribute","auto_examples/sphinx/plot_plot2rst","auto_examples/style/plot_multiple_styles","auto_examples/layout/plot_figaspect","api/mpltools.color","api/mpltools.style","api/mpltools.animation","auto_examples/layout/plot_cross_spines","index","auto_examples/style/plot_ggplot","api/mpltools.io","getting_started","auto_examples/color/plot_color_mapper","api/mpltools.layout","auto_examples/special/plot_hinton","install","auto_examples/special/plot_errorfill","api/mpltools.special","api/mpltools.util","auto_examples/style/plot_dark_background","api/api","auto_examples/style/plot_grayscale","license","api/mpltools.annotation","auto_examples/color/plot_cycle_cmap","auto_examples/annotation/plot_slope_marker","auto_examples/index","auto_examples/animation/plot_decaying_oscillation","api/mpltools.widgets"]})

diff --git a/api/mpltools.layout.html b/api/mpltools.layout.html
@@ -77,19 +77,22 @@
 <tr class="row-odd"><td><a class="reference internal" href="#mpltools.layout.clear_frame" title="mpltools.layout.clear_frame"><tt class="xref py py-obj docutils literal"><span class="pre">mpltools.layout.clear_frame</span></tt></a>([ax])</td>
 <td>Remove the frame (ticks and spines) from an axes.</td>
 </tr>
-<tr class="row-even"><td><a class="reference internal" href="#mpltools.layout.cross_spines" title="mpltools.layout.cross_spines"><tt class="xref py py-obj docutils literal"><span class="pre">mpltools.layout.cross_spines</span></tt></a>([zero_cross,&nbsp;ax])</td>
+<tr class="row-even"><td><a class="reference internal" href="#mpltools.layout.clip_zero_formatter" title="mpltools.layout.clip_zero_formatter"><tt class="xref py py-obj docutils literal"><span class="pre">mpltools.layout.clip_zero_formatter</span></tt></a>(...)</td>
+<td>Tick formatter that returns empty string for zero values.</td>
+</tr>
+<tr class="row-odd"><td><a class="reference internal" href="#mpltools.layout.cross_spines" title="mpltools.layout.cross_spines"><tt class="xref py py-obj docutils literal"><span class="pre">mpltools.layout.cross_spines</span></tt></a>([zero_cross,&nbsp;...])</td>
 <td>Remove top and right spines from an axes.</td>
 </tr>
-<tr class="row-odd"><td><a class="reference internal" href="#mpltools.layout.figaspect" title="mpltools.layout.figaspect"><tt class="xref py py-obj docutils literal"><span class="pre">mpltools.layout.figaspect</span></tt></a>([aspect_ratio,&nbsp;...])</td>
+<tr class="row-even"><td><a class="reference internal" href="#mpltools.layout.figaspect" title="mpltools.layout.figaspect"><tt class="xref py py-obj docutils literal"><span class="pre">mpltools.layout.figaspect</span></tt></a>([aspect_ratio,&nbsp;...])</td>
 <td>Return figure size (width, height) in inches.</td>
 </tr>
-<tr class="row-even"><td><a class="reference internal" href="#mpltools.layout.figimage" title="mpltools.layout.figimage"><tt class="xref py py-obj docutils literal"><span class="pre">mpltools.layout.figimage</span></tt></a>(img[,&nbsp;scale,&nbsp;dpi])</td>
+<tr class="row-odd"><td><a class="reference internal" href="#mpltools.layout.figimage" title="mpltools.layout.figimage"><tt class="xref py py-obj docutils literal"><span class="pre">mpltools.layout.figimage</span></tt></a>(img[,&nbsp;scale,&nbsp;dpi])</td>
 <td>Return figure and axes with figure tightly surrounding image.</td>
 </tr>
-<tr class="row-odd"><td><a class="reference internal" href="#mpltools.layout.figure" title="mpltools.layout.figure"><tt class="xref py py-obj docutils literal"><span class="pre">mpltools.layout.figure</span></tt></a>([aspect_ratio,&nbsp;...])</td>
+<tr class="row-even"><td><a class="reference internal" href="#mpltools.layout.figure" title="mpltools.layout.figure"><tt class="xref py py-obj docutils literal"><span class="pre">mpltools.layout.figure</span></tt></a>([aspect_ratio,&nbsp;...])</td>
 <td>Return matplotlib figure window.</td>
 </tr>
-<tr class="row-even"><td><a class="reference internal" href="#mpltools.layout.pad_limits" title="mpltools.layout.pad_limits"><tt class="xref py py-obj docutils literal"><span class="pre">mpltools.layout.pad_limits</span></tt></a>([pad_frac,&nbsp;ax])</td>
+<tr class="row-odd"><td><a class="reference internal" href="#mpltools.layout.pad_limits" title="mpltools.layout.pad_limits"><tt class="xref py py-obj docutils literal"><span class="pre">mpltools.layout.pad_limits</span></tt></a>([pad_frac,&nbsp;ax])</td>
 <td>Pad data limits to nicely accomodate data.</td>
 </tr>
 </tbody>
@@ -118,11 +121,20 @@ off the axis also removes the axes background and axis labels.</p>
 </dd></dl>
 
 </div>
+<div class="section" id="clip-zero-formatter">
+<h2>clip_zero_formatter<a class="headerlink" href="#clip-zero-formatter" title="Permalink to this headline">¶</a></h2>
+<dl class="function">
+<dt id="mpltools.layout.clip_zero_formatter">
+<tt class="descclassname">mpltools.layout.</tt><tt class="descname">clip_zero_formatter</tt><big>(</big><em>tick_val</em>, <em>tick_pos</em><big>)</big><a class="headerlink" href="#mpltools.layout.clip_zero_formatter" title="Permalink to this definition">¶</a></dt>
+<dd><p>Tick formatter that returns empty string for zero values.</p>
+</dd></dl>
+
+</div>
 <div class="section" id="cross-spines">
 <h2>cross_spines<a class="headerlink" href="#cross-spines" title="Permalink to this headline">¶</a></h2>
 <dl class="function">
 <dt id="mpltools.layout.cross_spines">
-<tt class="descclassname">mpltools.layout.</tt><tt class="descname">cross_spines</tt><big>(</big><em>zero_cross=False</em>, <em>ax=None</em><big>)</big><a class="reference internal" href="../_modules/mpltools/layout.html#cross_spines"><span class="viewcode-link">[source]</span></a><a class="headerlink" href="#mpltools.layout.cross_spines" title="Permalink to this definition">¶</a></dt>
+<tt class="descclassname">mpltools.layout.</tt><tt class="descname">cross_spines</tt><big>(</big><em>zero_cross=False</em>, <em>remove_zeros=True</em>, <em>ax=None</em><big>)</big><a class="reference internal" href="../_modules/mpltools/layout.html#cross_spines"><span class="viewcode-link">[source]</span></a><a class="headerlink" href="#mpltools.layout.cross_spines" title="Permalink to this definition">¶</a></dt>
 <dd><p>Remove top and right spines from an axes.</p>
 <table class="docutils field-list" frame="void" rules="none">
 <col class="field-name" />
@@ -131,6 +143,10 @@ off the axis also removes the axes background and axis labels.</p>
 <tr class="field-odd field"><th class="field-name">Parameters :</th><td class="field-body"><p class="first"><strong>zero_cross</strong> : bool</p>
 <blockquote>
 <div><p>If True, the spines are set so that they cross at zero.</p>
+</div></blockquote>
+<p><strong>remove_zeros</strong> : bool</p>
+<blockquote>
+<div><p>If True <strong>and `zero_cross` is True</strong>, remove zero ticks.</p>
 </div></blockquote>
 <p><strong>ax</strong> : <tt class="xref py py-class docutils literal"><span class="pre">Axes</span></tt></p>
 <blockquote class="last">
@@ -301,6 +317,7 @@ is equivalent to calling plt.axis(&#8216;tight&#8217;).</p>
   <ul>
 <li><a class="reference internal" href="#">Module: <tt class="docutils literal"><span class="pre">layout</span></tt></a><ul>
 <li><a class="reference internal" href="#clear-frame">clear_frame</a></li>
+<li><a class="reference internal" href="#clip-zero-formatter">clip_zero_formatter</a></li>
 <li><a class="reference internal" href="#cross-spines">cross_spines</a></li>
 <li><a class="reference internal" href="#figaspect">figaspect</a></li>
 <li><a class="reference internal" href="#figimage">figimage</a></li>

diff --git a/api/mpltools.special.html b/api/mpltools.special.html
@@ -87,7 +87,7 @@
 <h2>errorfill<a class="headerlink" href="#errorfill" title="Permalink to this headline">¶</a></h2>
 <dl class="function">
 <dt id="mpltools.special.errorfill">
-<tt class="descclassname">mpltools.special.</tt><tt class="descname">errorfill</tt><big>(</big><em>x</em>, <em>y</em>, <em>yerr=None</em>, <em>xerr=None</em>, <em>color=None</em>, <em>alpha=1</em>, <em>alpha_fill=0.29999999999999999</em>, <em>label=''</em>, <em>label_fill=''</em>, <em>ax=None</em><big>)</big><a class="headerlink" href="#mpltools.special.errorfill" title="Permalink to this definition">¶</a></dt>
+<tt class="descclassname">mpltools.special.</tt><tt class="descname">errorfill</tt><big>(</big><em>x</em>, <em>y</em>, <em>yerr=None</em>, <em>xerr=None</em>, <em>color=None</em>, <em>ls=None</em>, <em>lw=None</em>, <em>alpha=1</em>, <em>alpha_fill=0.29999999999999999</em>, <em>label=''</em>, <em>label_fill=''</em>, <em>ax=None</em><big>)</big><a class="headerlink" href="#mpltools.special.errorfill" title="Permalink to this definition">¶</a></dt>
 <dd><p>Plot data with errors marked by a filled region.</p>
 <table class="docutils field-list" frame="void" rules="none">
 <col class="field-name" />
@@ -106,6 +106,14 @@
 <blockquote>
 <div><p>Color of line and fill region.</p>
 </div></blockquote>
+<p><strong>ls</strong> : Matplotlib line style</p>
+<blockquote>
+<div><p>Style of the line</p>
+</div></blockquote>
+<p><strong>lw</strong> : Matplotlib line width, float value in points</p>
+<blockquote>
+<div><p>Width of the line</p>
+</div></blockquote>
 <p><strong>alpha</strong> : float</p>
 <blockquote>
 <div><p>Opacity used for plotting.</p>
@@ -120,8 +128,12 @@
 <div><p>Label for line.</p>
 </div></blockquote>
 <p><strong>label</strong> : str</p>
-<blockquote class="last">
+<blockquote>
 <div><p>Label for filled region.</p>
+</div></blockquote>
+<p><strong>ax</strong> : Axis instance</p>
+<blockquote class="last">
+<div><p>The plot is drawn on axis <cite>ax</cite>. If <cite>None</cite> the current axis is used</p>
 </div></blockquote>
 </td>
 </tr>

diff --git a/genindex.html b/genindex.html
@@ -128,6 +128,10 @@
   </dt>
 
       
+  <dt><a href="api/mpltools.layout.html#mpltools.layout.clip_zero_formatter">clip_zero_formatter() (in module mpltools.layout)</a>
+  </dt>
+
+      
   <dt><a href="api/mpltools.color.html#mpltools.color.color_mapper">color_mapper() (in module mpltools.color)</a>
   </dt>
 
@@ -135,6 +139,8 @@
   <dt><a href="api/mpltools.color.html#mpltools.color.colors_from_cmap">colors_from_cmap() (in module mpltools.color)</a>
   </dt>
 
+  </dl></td>
+  <td style="width: 33%" valign="top"><dl>
       
   <dt><a href="api/mpltools.widgets.html#mpltools.widgets.RectangleSelector.connect_event">connect_event() (mpltools.widgets.RectangleSelector method)</a>
   </dt>
@@ -145,8 +151,6 @@
   </dt>
 
       </dl></dd>
-  </dl></td>
-  <td style="width: 33%" valign="top"><dl>
       
   <dt><a href="api/mpltools.widgets.html#mpltools.widgets.RectangleSelector.corner_coords">corner_coords (mpltools.widgets.RectangleSelector attribute)</a>
   </dt>

diff --git a/api/api.html b/api/api.html
@@ -90,6 +90,7 @@
 </li>
 <li class="toctree-l1"><a class="reference internal" href="mpltools.layout.html">Module: <tt class="docutils literal"><span class="pre">layout</span></tt></a><ul>
 <li class="toctree-l2"><a class="reference internal" href="mpltools.layout.html#clear-frame">clear_frame</a></li>
+<li class="toctree-l2"><a class="reference internal" href="mpltools.layout.html#clip-zero-formatter">clip_zero_formatter</a></li>
 <li class="toctree-l2"><a class="reference internal" href="mpltools.layout.html#cross-spines">cross_spines</a></li>
 <li class="toctree-l2"><a class="reference internal" href="mpltools.layout.html#figaspect">figaspect</a></li>
 <li class="toctree-l2"><a class="reference internal" href="mpltools.layout.html#figimage">figimage</a></li>
